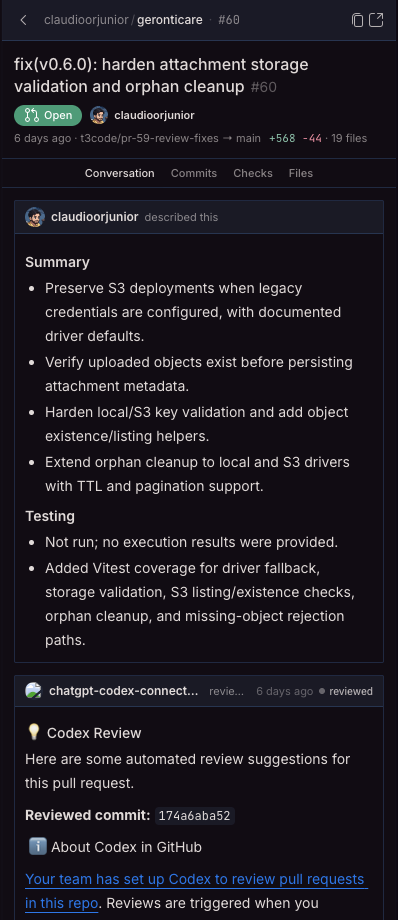
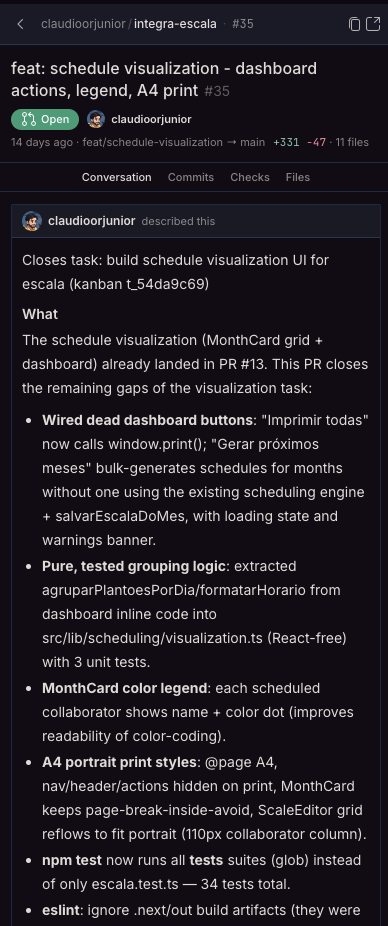
docs: replace PR detail screenshot

Changed region(s): [[0.0, 0.0, 0.9897, 1.0]]

diff --git a/README.md b/README.md
@@ -6,7 +6,7 @@ A single-file desktop plugin (`@hermes/plugin-sdk`) that shows your repository's
 
 | PR list | PR detail |
 | --- | --- |
-| ![PR list pane](docs/pr-list.png?v=2) | ![PR detail view](docs/pr-detail.png) |
+| ![PR list pane](docs/pr-list.png?v=2) | ![PR detail view](docs/pr-detail.png?v=2) |
 
 ## Features
 
